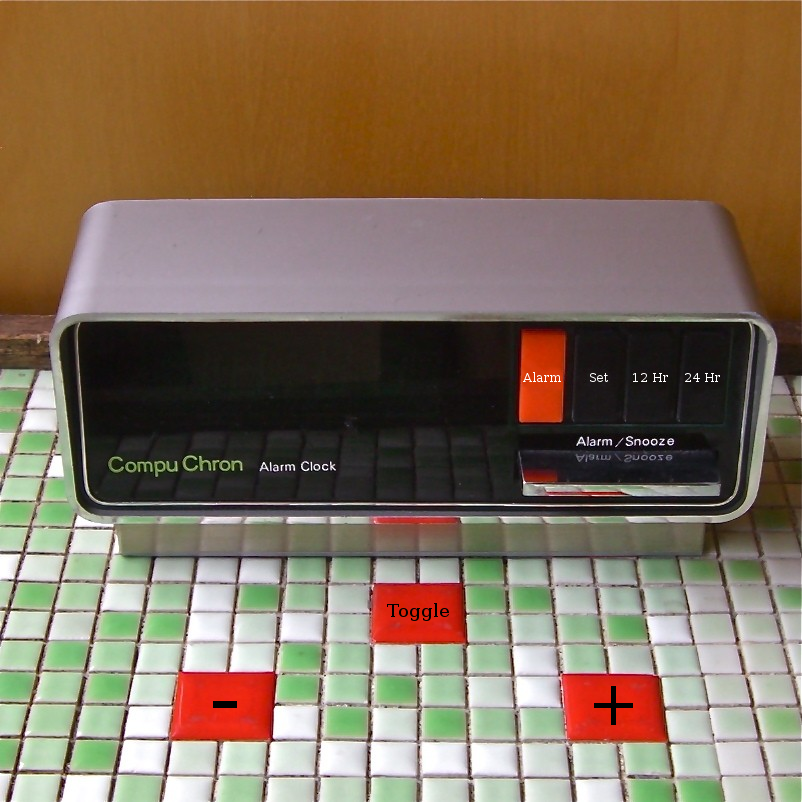
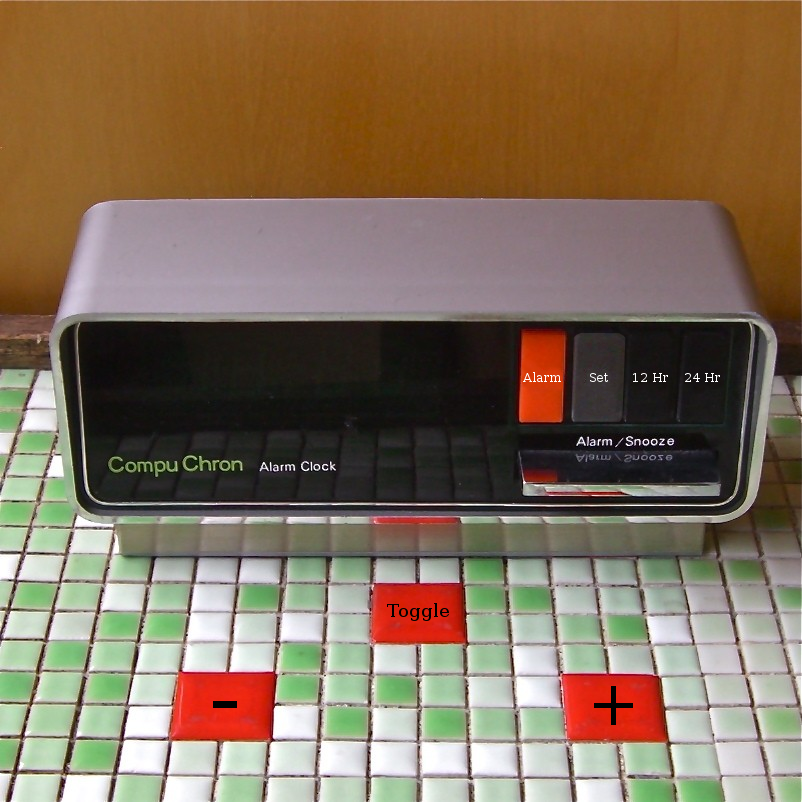
Update clock-set.png with new version that shows a visual change in the "Set" button. Update the js file so it's not trying to use the prototype picture.

Changed region(s): [[0.6858, 0.4052, 0.7793, 0.5299]]

diff --git a/clock.js b/clock.js
@@ -49,7 +49,7 @@ var toggleSet = function(){
     }
   else {
     run = false;
-    document.getElementById("clock-picture").src="clock-set2.png";
+    document.getElementById("clock-picture").src="clock-set.png";
     document.getElementById('minbtn').hidden = false;
     document.getElementById('minbtn').onclick = decrementTime;
     document.getElementById('addbtn').hidden = false;
